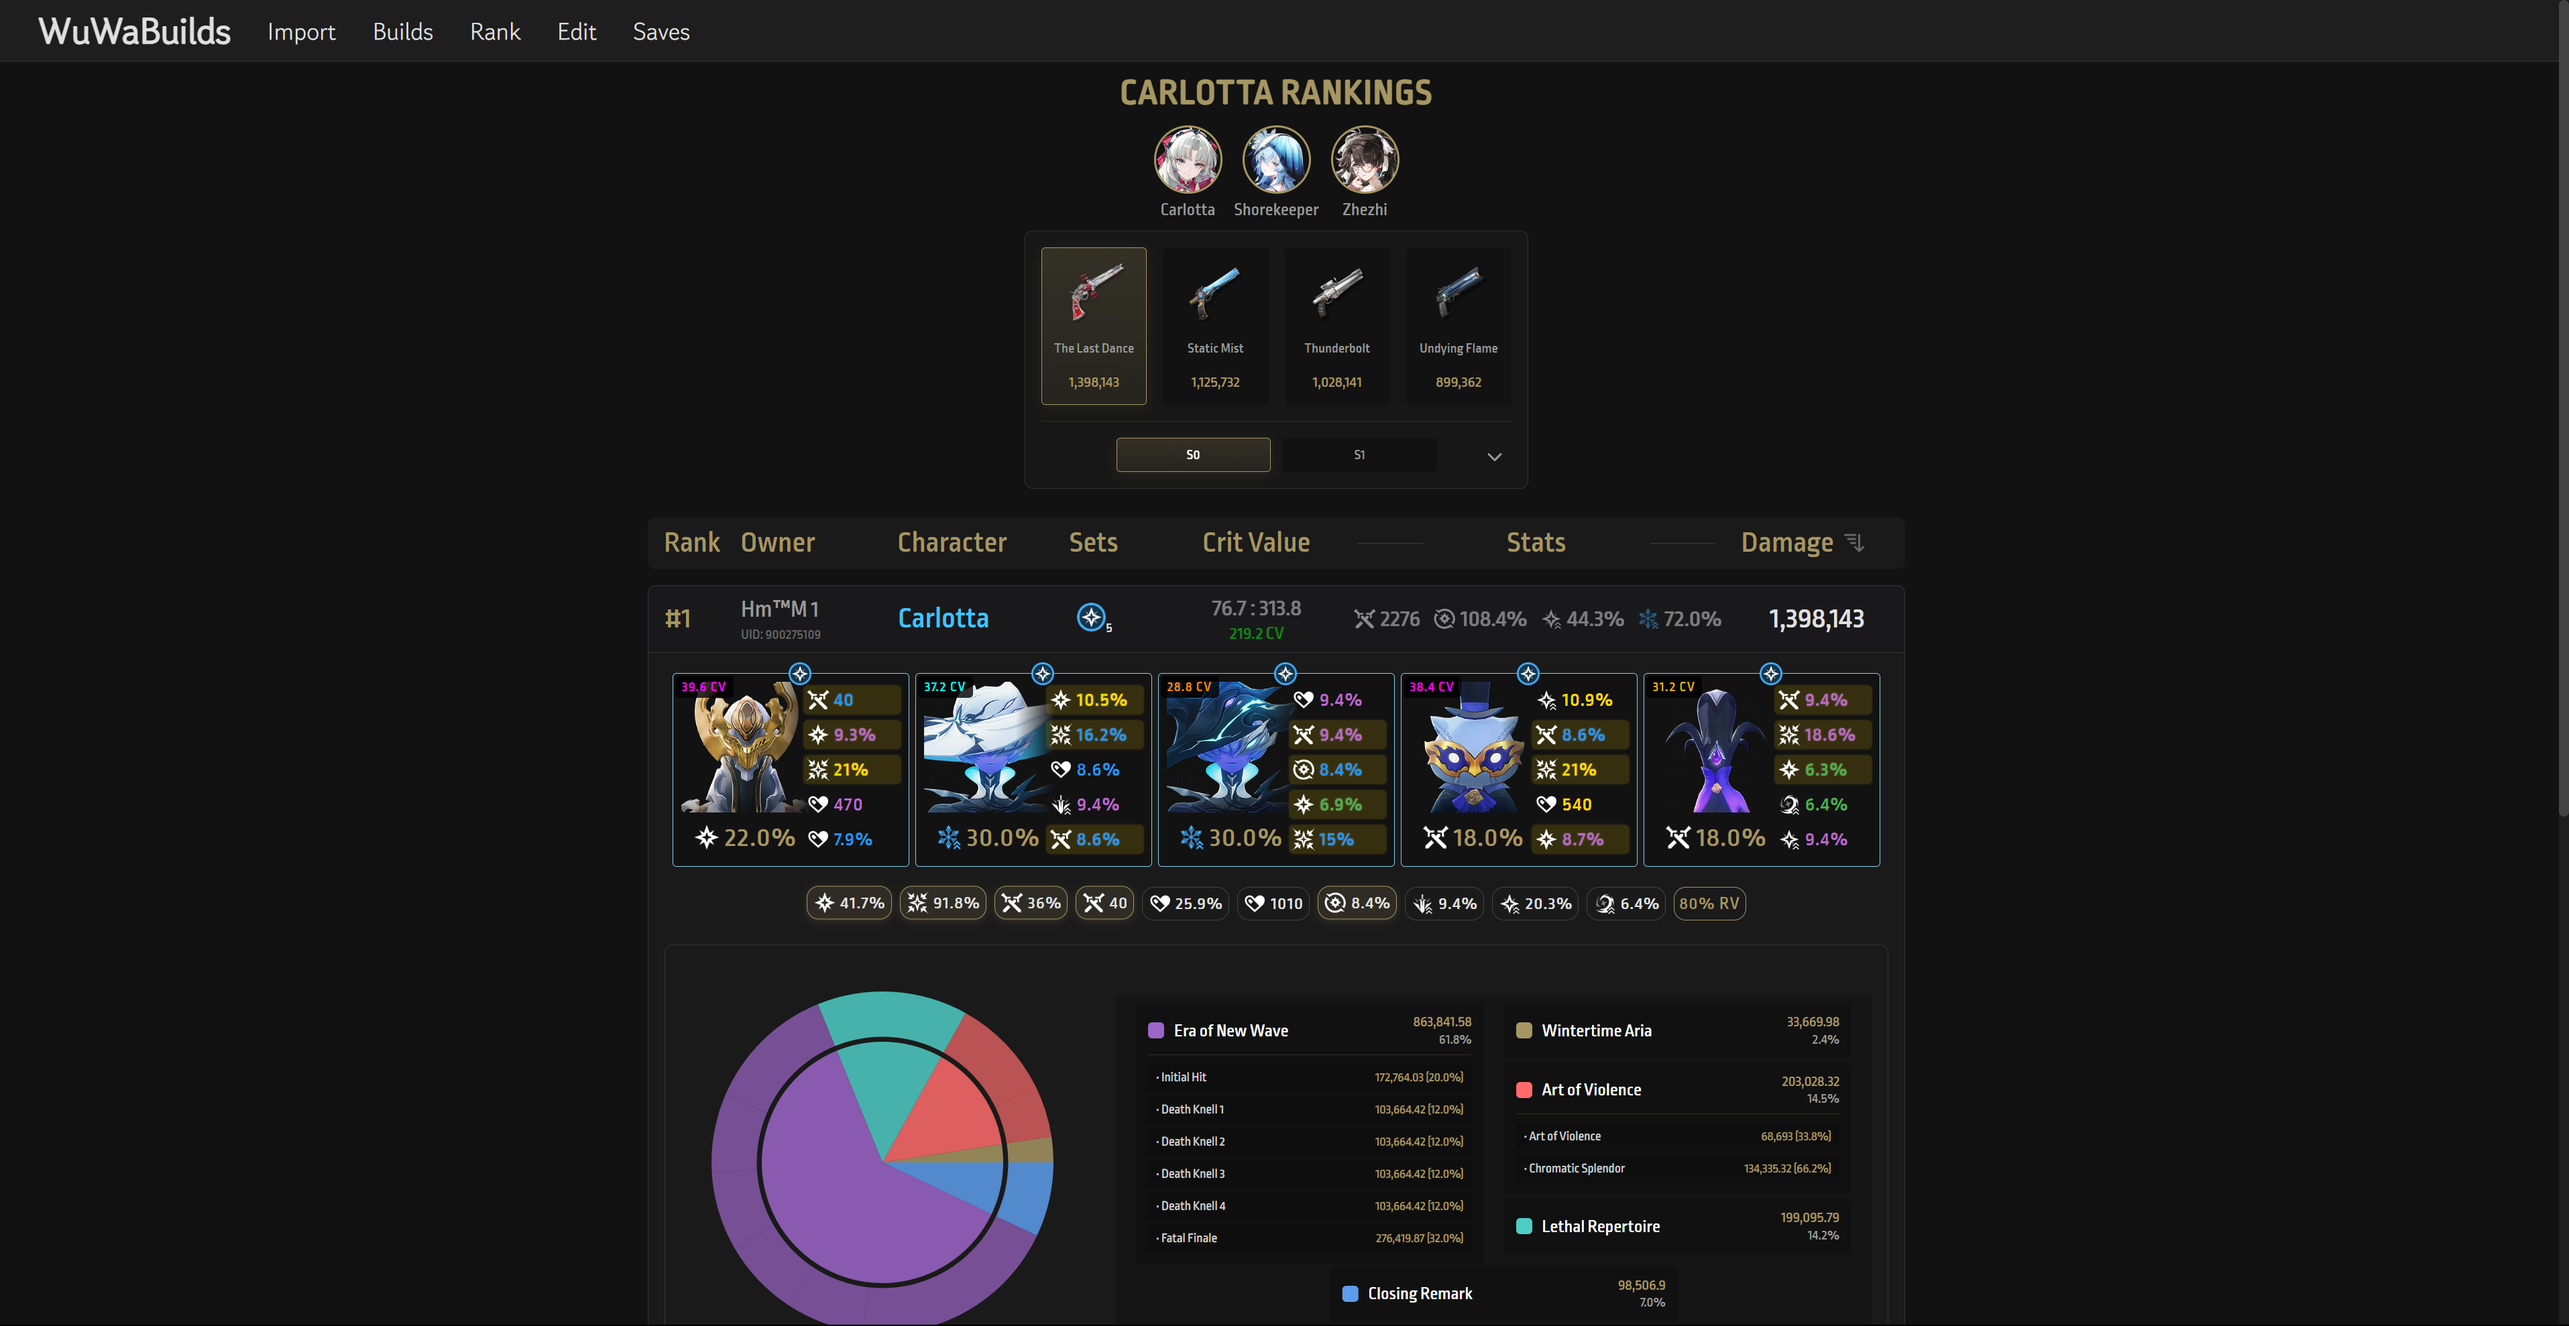
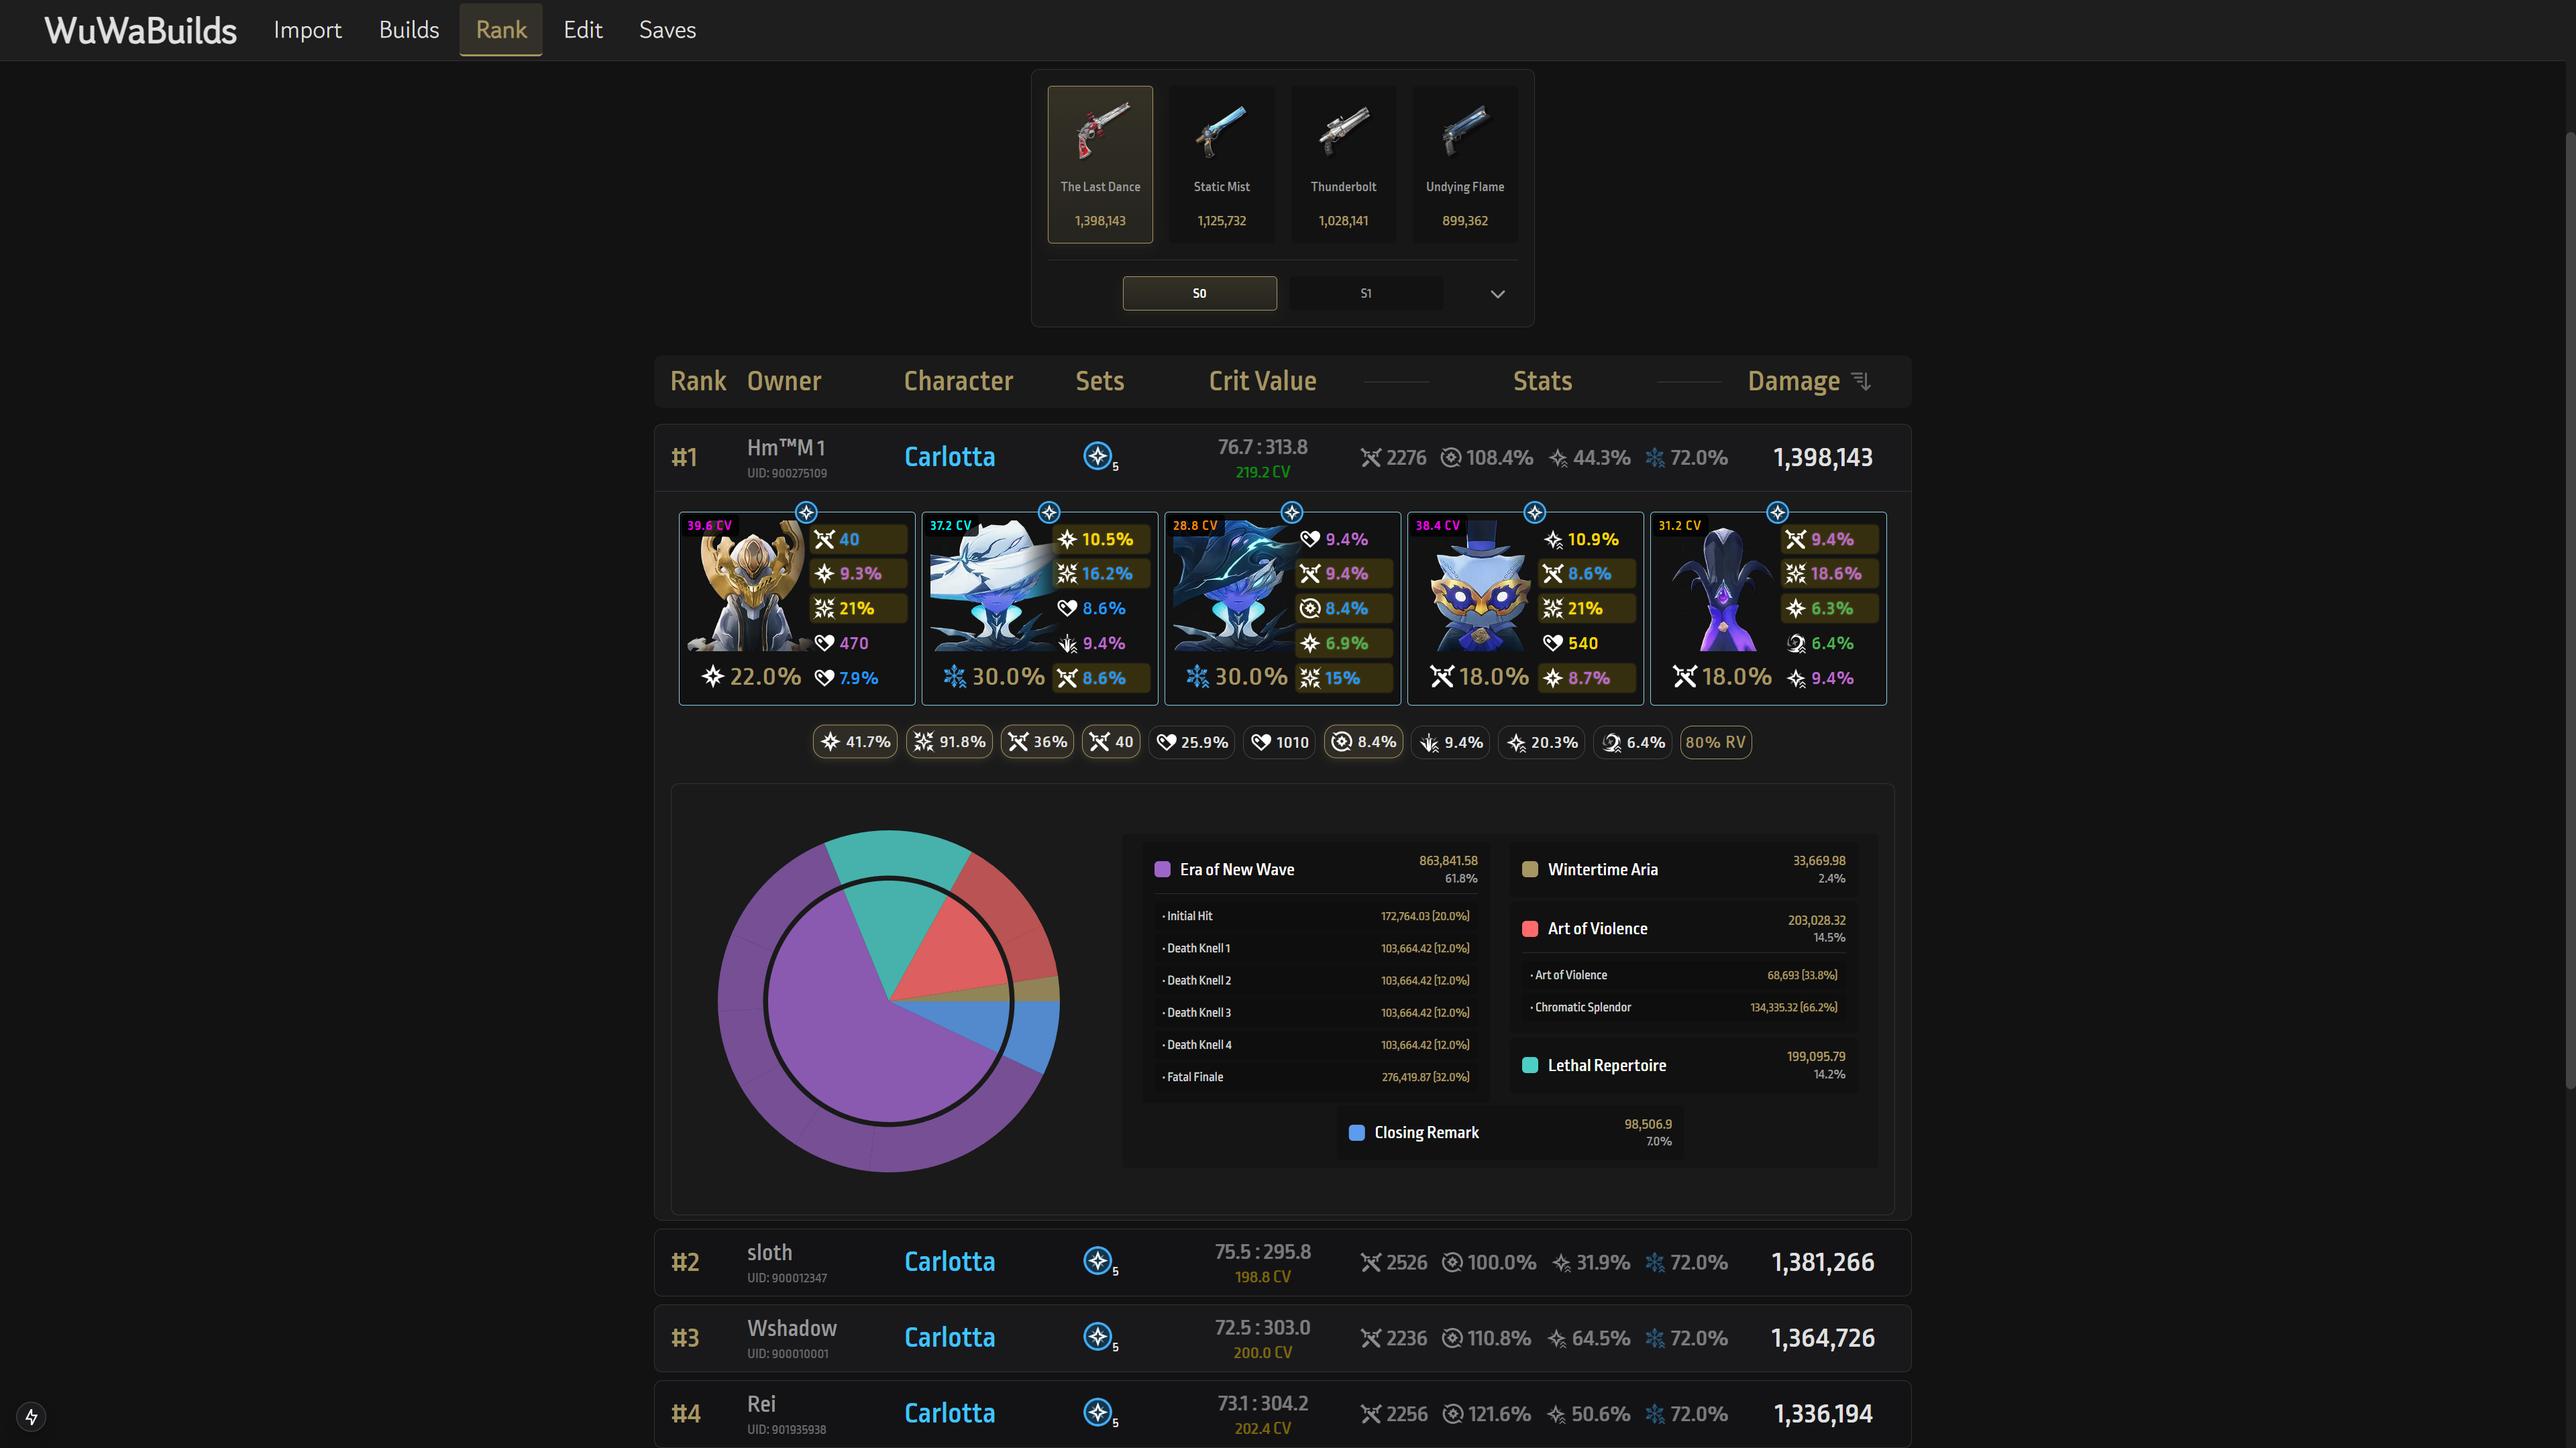
Metadata fix attempt
Dynamic lb show image, but others don't. Tried defining full metadata

diff --git a/src/components/Navigation.tsx b/src/components/Navigation.tsx
@@ -6,16 +6,21 @@ import { usePathname } from 'next/navigation';
 export default function Navigation() {
     const pathname = usePathname();
 
+    const isActive = (path: string) => {
+        if (path === '/') return pathname === '/';
+        return pathname.startsWith(path);
+    };
+
     return (
         <nav className="nav-bar">
             <div className="nav-content">
                 <Link href="/" className="nav-title">WuWaBuilds</Link>
                 <div className="nav-links">
-                    <Link href="/import" className={pathname === '/import' ? 'active' : ''}>Import</Link>
-                    <Link href="/builds" className={pathname === '/builds' ? 'active' : ''}>Builds</Link>
-                    <Link href="/leaderboards" className={pathname === '/leaderboards' ? 'active' : ''}>Rank</Link>
-                    <Link href="/edit" className={pathname === '/edit' ? 'active' : ''}>Edit</Link>
-                    <Link href="/saves" className={pathname === '/saves' ? 'active' : ''}>Saves</Link>
+                    <Link href="/import" className={isActive('/import') ? 'active' : ''}>Import</Link>
+                    <Link href="/builds" className={isActive('/builds') ? 'active' : ''}>Builds</Link>
+                    <Link href="/leaderboards" className={isActive('/leaderboards') ? 'active' : ''}>Rank</Link>
+                    <Link href="/edit" className={isActive('/edit') ? 'active' : ''}>Edit</Link>
+                    <Link href="/saves" className={isActive('/saves') ? 'active' : ''}>Saves</Link>
                 </div>
             </div>
         </nav>

diff --git a/src/app/(routes)/saves/page.tsx b/src/app/(routes)/saves/page.tsx
@@ -5,12 +5,19 @@ export const metadata: Metadata = {
     title: 'Saved Builds - WuWa Builds',
     description: 'View and manage your Wuthering Waves character builds. Search, sort, and export your build collection.',
     openGraph: {
+        type: 'website',
         title: 'Saved Builds - WuWa Builds',
         description: 'View and manage your Wuthering Waves builds',
-        images: ['/images/builds.png'],
+        siteName: 'WuWa Builds',
+        url: 'https://wuwabuilds.moe/saves',
+        images: [{
+            url: '/images/builds.png',
+            width: 1920,
+            height: 1080,
+            alt: 'WuWa Builds Saved Builds'
+        }]
     }
 };
-
 export default function SavesPage() {
     return (
         <SavePageClient />

diff --git a/src/app/(routes)/edit/page.tsx b/src/app/(routes)/edit/page.tsx
@@ -5,9 +5,17 @@ export const metadata: Metadata = {
     title: 'Build Editor - WuWa Builds',
     description: 'Scan in-game screenshots to create and customize Wuthering Waves builds with real-time stat calculations and build management tools.',
     openGraph: {
+        type: 'website',
         title: 'Build Editor - WuWa Builds',
         description: 'Create and customize Wuthering Waves builds',
-        images: ['/images/edit.png'],
+        siteName: 'WuWa Builds',
+        url: 'https://wuwabuilds.moe/edit',
+        images: [{
+            url: '/images/edit.png',
+            width: 1920,
+            height: 1080,
+            alt: 'WuWa Builds Editor'
+        }]
     }
 };
 

diff --git a/src/app/(routes)/leaderboards/page.tsx b/src/app/(routes)/leaderboards/page.tsx
@@ -10,9 +10,17 @@ export const metadata: Metadata = {
     title: 'Character Rankings - WuWa Builds',
     description: 'View top builds and damage for each character in Wuthering Waves',
     openGraph: {
+        type: 'website',
         title: 'Character Rankings - WuWa Builds',
         description: 'View top builds and rankings for each character',
-        images: ['/images/leaderboard.png'],
+        siteName: 'WuWa Builds',
+        url: 'https://wuwabuilds.moe/leaderboards',
+        images: [{
+            url: '/images/leaderboard.png',
+            width: 1920,
+            height: 1080,
+            alt: 'WuWa Builds Leaderboard Rankings'
+        }]
     }
 };
 

diff --git a/src/app/(routes)/builds/page.tsx b/src/app/(routes)/builds/page.tsx
@@ -6,9 +6,17 @@ export const metadata: Metadata = {
     title: 'Global Builds - WuWa Builds',
     description: 'View and compare builds from players worldwide. Standardized to level 90.',
     openGraph: {
+        type: 'website',
         title: 'Global Builds - WuWa Builds',
         description: 'View and compare builds from players worldwide',
-        images: ['/images/buildspage.png'],
+        siteName: 'WuWa Builds',
+        url: 'https://wuwabuilds.moe/builds',
+        images: [{
+            url: '/images/buildspage.png',
+            width: 1920,
+            height: 1080,
+            alt: 'WuWa Builds Global Builds'
+        }]
     }
 };
 

diff --git a/src/app/(routes)/import/page.tsx b/src/app/(routes)/import/page.tsx
@@ -5,9 +5,17 @@ export const metadata: Metadata = {
     title: 'Import Builds - WuWa Builds',
     description: 'Import builds directly from the official wuwa-bot. One click, hassle-free.',
     openGraph: {
+        type: 'website',
         title: 'Import Builds - WuWa Builds',
         description: 'Import builds directly from the official wuwa-bot',
-        images: ['/images/import.png'],
+        siteName: 'WuWa Builds',
+        url: 'https://wuwabuilds.moe/import',
+        images: [{
+            url: '/images/import.png',
+            width: 1920,
+            height: 1080,
+            alt: 'WuWa Builds Import'
+        }]
     }
 };
 

diff --git a/src/app/(routes)/leaderboards/[characterId]/page.tsx b/src/app/(routes)/leaderboards/[characterId]/page.tsx
@@ -23,7 +23,7 @@ export async function generateMetadata({ params }: Props): Promise<Metadata> {
         title: `${character.name} Damage Calculations`,
         description: `View top ${character.name} builds and damage calculations with detailed breakdowns`,
         openGraph: {
-            title: `${character.name} Damage Calculations and Leaderboard - WuWa Builds`,
+            title: `${character.name} Damage Calculations and Leaderboard`,
             description: `View detailed ${character.name} builds and damage calculations`,
             images: ['/images/leaderboard.png'],
         }
